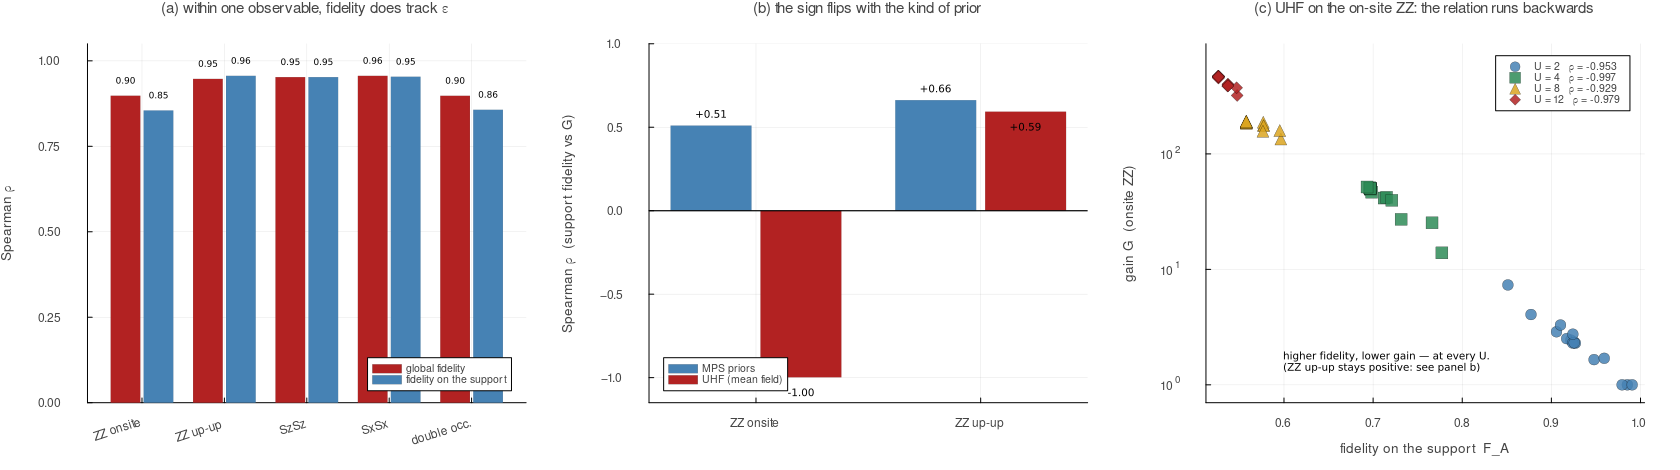
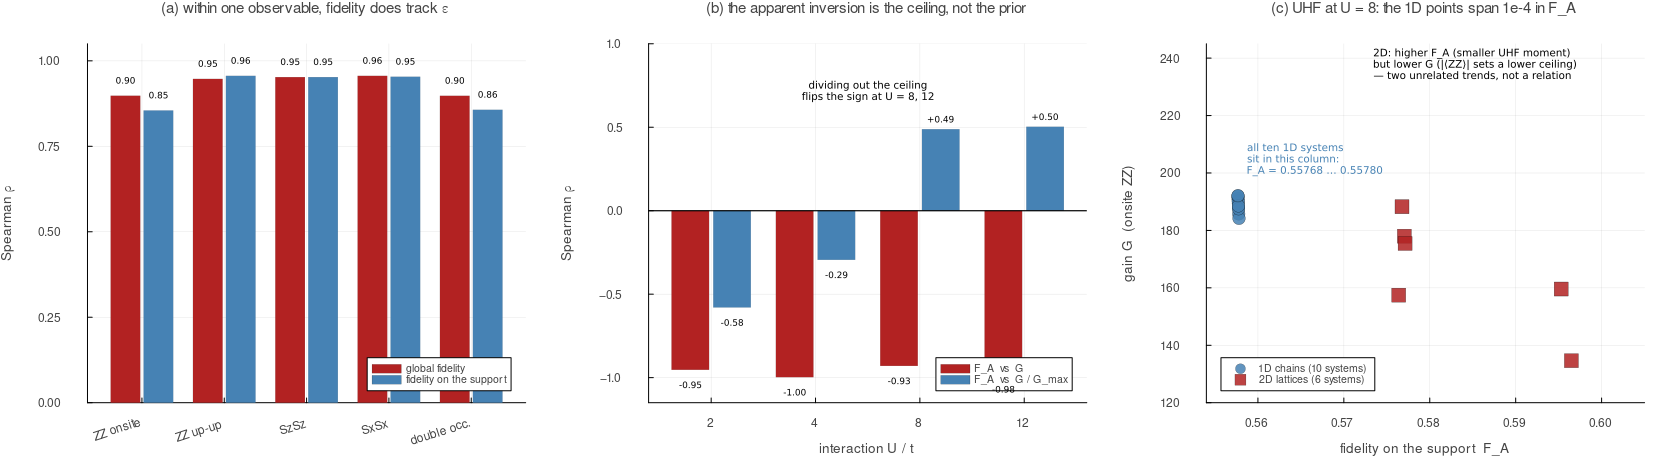
Retract the claim that fidelity predicts gain backwards for UHF
Challenged on it, and the challenge was right. The -1.00 rank
correlation between support fidelity and gain for UHF is real as a
number and meaningless as a relation, for two reasons I did not check
before reporting it.

The gain carries the ceiling as well as the prior error -- something this
record states repeatedly and I failed to apply when correlating across
systems. G_max runs from 142 on the 4x3 lattice to 239 on the chains,
and dividing it out flips the sign: -0.929 becomes +0.488 at U = 8 and
-0.979 becomes +0.503 at U = 12.

And the fidelity barely varies. The ten 1D systems that produced -1.000
span F_A from 0.55768 to 0.55780, a range of 1.2e-4, so the rank
statistic was ordering fourth-decimal noise. On the six 2D systems alone
it falls to -0.429.

What actually happens is that 1D and 2D differ in both quantities for
unrelated reasons: F_A is higher in 2D because the UHF moment is smaller
there, 0.45 against 0.47, and G is lower because |<ZZ>| is smaller, 0.78
against 0.85, which lowers the ceiling. Two independent trends pointing
opposite ways, not a mechanism.

Panels (b) and (c) now dissect the artifact instead of presenting it as a
finding -- the ceiling-normalised correlations beside the raw ones, and
the U=8 scatter with the 1D column marked.

Panel (a) is unaffected: fidelity tracking epsilon at 0.86 to 0.96 within
a fixed observable never goes through G, so the ceiling cannot touch it.
[…]

diff --git a/examples/tatsuyama/README_experiments.md b/examples/tatsuyama/README_experiments.md
@@ -972,18 +972,31 @@ CRMは統計学の**制御変量法**のβ=1特殊例と見なせる:
 
 ただし $G$ に対しては同じ観測量内でも 0.38〜0.71 に落ちる。 $G$ は $\varepsilon$ と天井 $G_{\max}$ の**両方**で決まり、 $G_{\max}$ は系と $U$ で大きく変わるためである。
 
-**(b)(c) そして UHF では、ZZ onsite に限って符号が反転する。**
+**(b)(c) 「UHF では符号が反転する」は誤りだった — 撤回する。**
 
-| prior 群 | ZZ onsite | ZZ up-up nb |
+当初、prior 群で分けると UHF の台の忠実度と $G$ の順位相関が $-1.00$ になることを、平均場に固有の現象として報告した。**これは2つの理由で成り立たない。**
+
+**理由1: 天井の効果である。** $G$ は $\varepsilon$ と天井 $G_{\max}$ の**両方**で決まる。 $G_{\max}$ は $\lvert\langle ZZ\rangle\rvert$ で決まり、系によって 142(2D 4×3)から 239(1D)まで 1.7倍違う。天井で割ると符号が変わる:
+
+| $U$ | $F_A$ vs $G$ | $F_A$ vs $G/G_{\max}$ |
 |---|---|---|
-| MPS のみ | +0.51 | +0.66 |
-| **UHF のみ** | **−1.00** | +0.59 |
+| 2 | −0.953 | −0.579 |
+| 4 | −0.997 | −0.294 |
+| 8 | **−0.929** | **+0.488** |
+| 12 | **−0.979** | **+0.503** |
 
-**平均場 prior では、台の忠実度が高いほどオンサイト ZZ の利得が低い。** $U$ 走査の副産物ではなく、 $U$ を固定して系サイズと幾何だけを変えても $-0.953$ 、 $-0.997$ 、 $-0.929$ 、 $-0.979$ と保たれる。
+**理由2: そもそも $F_A$ がほとんど動いていない。** $-1.000$ と出た 1D の10点は、 $F_A$ が **0.55768〜0.55780** の幅 $1.2\times10^{-4}$ に固まっている。順位相関は**小数第4位のゆらぎを順位づけているだけ**である。2D の6点だけで見ると $-0.429$ まで落ちる。
 
-**反転は ZZ onsite に固有で、ZZ up-up では $+0.59$ と正のままである。** これは上の $U$ 依存の分岐と同じ話である — $U$ を上げると UHF の局所モーメントが育って $F_A$ は下がるが、**電荷セクターの精度は上がる**ので ZZ onsite の利得は上がる。スピンセクターの ZZ up-up では両方が下がるので符号は正のままになる。
+実際に起きていたのは、1D と 2D で $F_A$ と $G$ が**別々の理由で**逆向きに動いたことである:
 
-> つまり忠実度は「利得を予測しない」のではない。**観測量と prior の組によっては、正しい向きに予測することも、逆向きに予測することもある。** §2m 段階2 が「距離・忠実度による選定は系統的に誤る」と結論したのは、この符号が事前に分からないためである。
+- $F_A$: 2D の方が UHF の局所磁化が小さい( $m\simeq0.45$ 対 1D の $0.47$ )ので分極のずれが小さく、**忠実度は高い**
+- $G$: 2D の方が $\lvert\langle ZZ\rangle\rvert$ が小さい(0.78 対 0.85)ので**天井が低く**、利得も低い
+
+因果関係はない。**順位相関を、変動幅と交絡変数を確認せずに解釈したのが誤りだった。**
+
+> なお **(a) の結果はこの訂正の影響を受けない。** 観測量を固定したときに忠実度が $\varepsilon$ を 0.86〜0.96 で追う、という部分は $G$ を経由しないので、天井の問題とは無関係である。
+>
+> §2m 段階2 の「距離・忠実度による prior 選定は系統的に誤る」という結論も変わらない。そこでの根拠は $\Delta$ が対称性破れの方向に食われることであって、ここで撤回した符号反転ではない。
 
 #### 台の忠実度に替えても改善しない — では何が決めているのか
 
